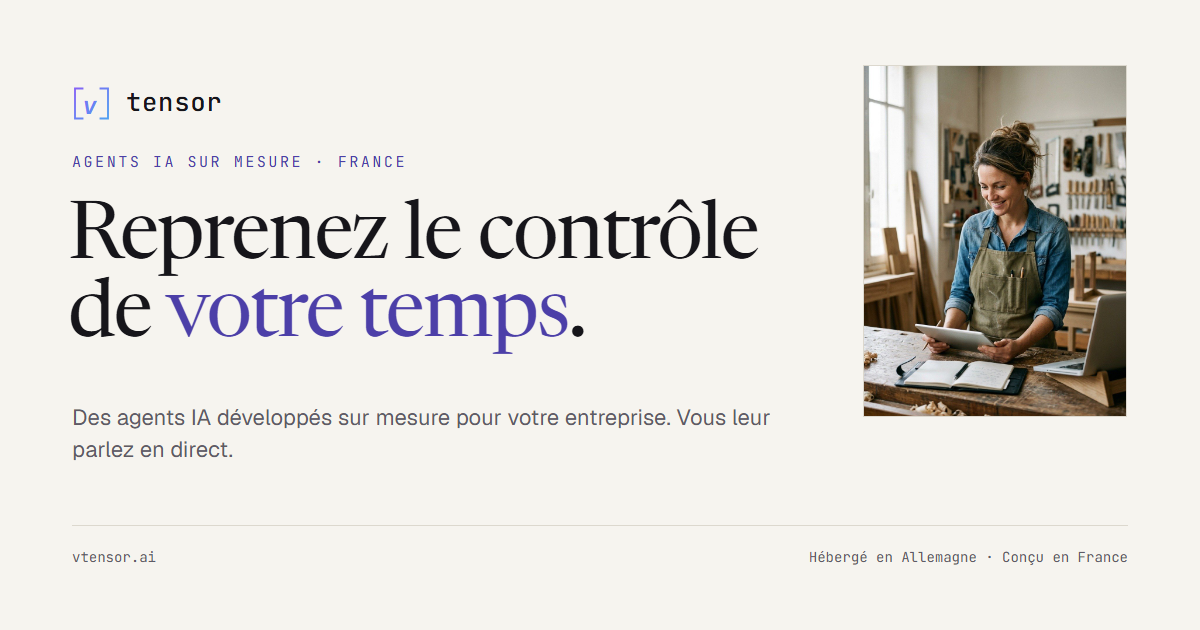
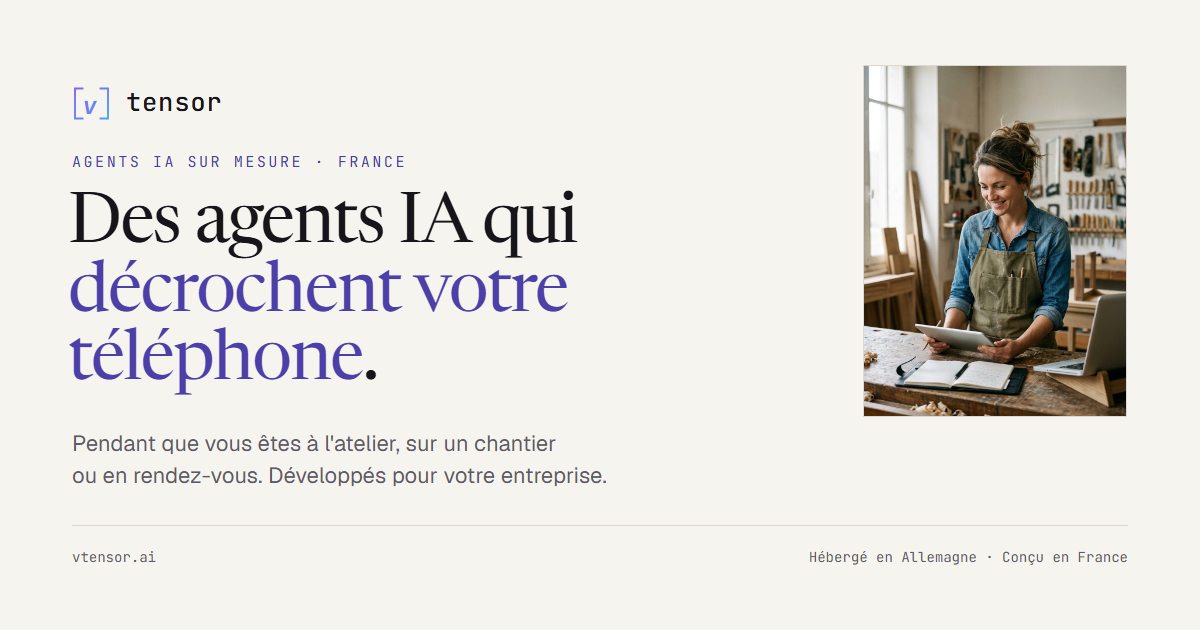
feat(site): image de partage avec le nouveau titre « Des agents IA qui decrochent votre telephone »

Changed region(s): [[0.0617, 0.3016, 0.6475, 0.7841]]

diff --git a/scripts/og/og.html b/scripts/og/og.html
@@ -6,17 +6,17 @@
 body{width:1200px;height:630px;background:#F6F4EF;color:#16151A;font-family:Geist,sans-serif;position:relative;overflow:hidden}
 .logo{position:absolute;left:72px;top:72px}
 .kicker{position:absolute;left:72px;top:152px;font-family:'JetBrains Mono',monospace;font-size:15px;letter-spacing:.17em;text-transform:uppercase;color:#4C3FA8}
-h1{position:absolute;left:68px;top:200px;width:780px;font-family:Newsreader,serif;font-weight:400;font-size:80px;line-height:.98;letter-spacing:-.025em}
+h1{position:absolute;left:68px;top:192px;width:780px;font-family:Newsreader,serif;font-weight:400;font-size:70px;line-height:.98;letter-spacing:-.025em}
 h1 span{color:#4C3FA8}
-.lead{position:absolute;left:72px;top:402px;width:730px;font-size:22px;line-height:1.45;color:#5E5B66}
+.lead{position:absolute;left:72px;top:428px;width:730px;font-size:22px;line-height:1.45;color:#5E5B66}
 .rule{position:absolute;left:72px;right:72px;top:525px;border-top:1px solid #DCD8CE}
 .foot{position:absolute;left:72px;right:72px;top:548px;display:flex;justify-content:space-between;font-family:'JetBrains Mono',monospace;font-size:14px;color:#5E5B66}
 img{position:absolute;left:863px;top:65px;width:264px;height:352px;object-fit:cover;border:1px solid #DCD8CE}
 </style></head><body>
 <svg class="logo" viewBox="20 0 200 80" width="150" height="60" aria-label="Vtensor"><defs><linearGradient id="g" x1="0" y1="0" x2="80" y2="80" gradientUnits="userSpaceOnUse"><stop offset="0" stop-color="#8B5CF6"/><stop offset="1" stop-color="#22D3EE"/></linearGradient></defs><g transform="translate(20 18)"><path d="M14 4 L4 4 L4 44 L14 44" fill="none" stroke="url(#g)" stroke-width="2.5" stroke-linecap="square"/><text x="14" y="38" font-size="32" font-weight="700" font-style="italic" fill="url(#g)" font-family="JetBrains Mono">v</text><path d="M38 4 L48 4 L48 44 L38 44" fill="none" stroke="url(#g)" stroke-width="2.5" stroke-linecap="square"/></g><text x="92" y="52" font-size="34" font-weight="500" letter-spacing="1" fill="#16151A" font-family="JetBrains Mono">tensor</text></svg>
 <div class="kicker">Agents IA sur mesure · France</div>
-<h1>Reprenez le contrôle<br>de <span>votre temps</span>.</h1>
-<p class="lead">Des agents IA développés sur mesure pour votre entreprise. Vous leur parlez en direct.</p>
+<h1>Des agents IA qui<br><span>décrochent votre<br>téléphone</span>.</h1>
+<p class="lead">Pendant que vous êtes à l'atelier, sur un chantier<br>ou en rendez-vous. Développés pour votre entreprise.</p>
 <img src="../../public/photos/menuiserie.jpg" alt="">
 <div class="rule"></div>
 <div class="foot"><span>vtensor.ai</span><span>Hébergé en Allemagne · Conçu en France</span></div>
